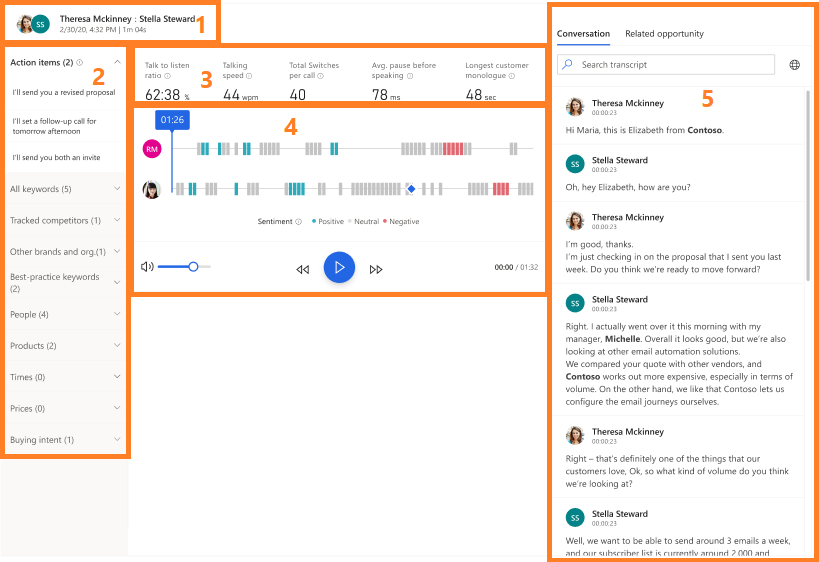
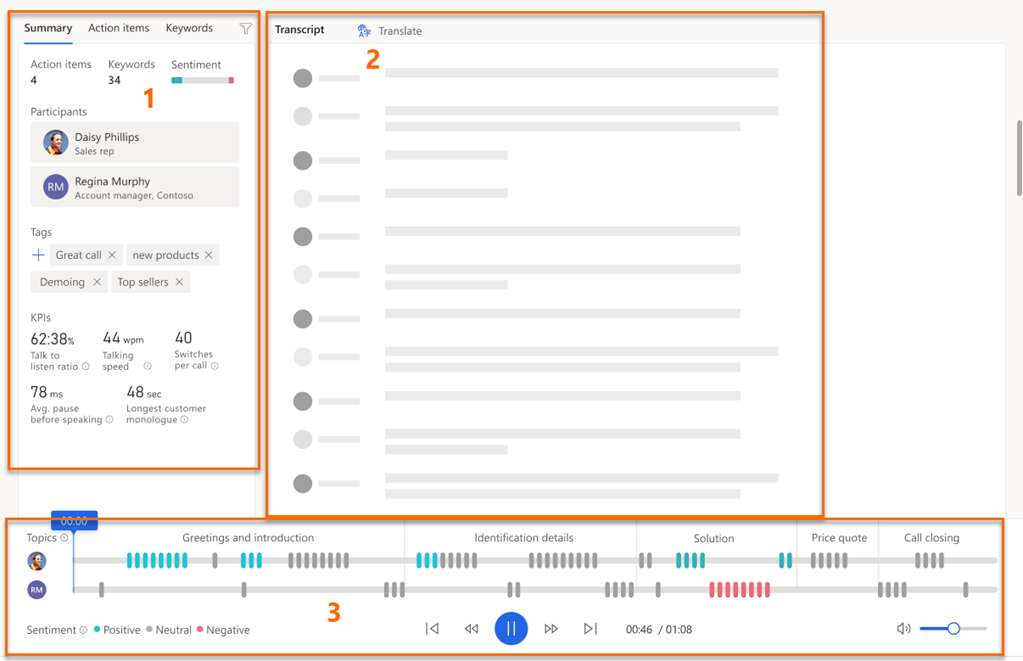
call summary page update

diff --git a/ai-docs/sales/view-and-understand-call-summary.md b/ai-docs/sales/view-and-understand-call-summary.md
@@ -70,53 +70,84 @@ The **Call Insights** tab is available under activities for leads and opportunit
 
 ## Understand the call summary page
 
-The following image is an example of the call summary page:
+Typically, call summary can be divided into the following sections:
 
-> [!div class="mx-imgBorder"]
-> ![Call summary page](media/si-app-call-summary-page.png "Call summary page")
+- [Call summary, action items, and keywords](#call-summary-action-items-and-keywords)
+- [Call transcript and translation](#call-transcript-and-translation)
+- [Call playback timeline and segmentation](#call-playback-timeline-and-segmentation)
 
-Let's look at the KPIs and insights on the call summary page in detail:
+### Call summary, action items, and keywords
 
-1.	**Call details**: Displays the names of the participants, the subject of call, and time when the phone call happened.
+- **Call summary tab**: Displays the names of the participants along with the KPIs such as average talking speed, switch per conversations, average pause, and longest customer monologue. Also, you can see the tags that are added to the conversation for better searchability.
 
-2.	**Signals pane**: Displays relevant talking points that were mentioned during the call:
-
-    -	**Action items**: Displays the list of actionable items mentioned during the call; for example, **I'll send you an email** or **I'll follow up with Michelle tomorrow**. When you select an action item, you can see where it was mentioned on the timeline.
-
-    -	**All keywords**: Displays keywords mentioned during the call. When you select a keyword, you can see where it was mentioned on the timeline.
-
-    -	**Tracked competitors**: Displays the defined competitors mentioned during the call. When you select a competitor, you can see where it was mentioned on the timeline.
-
-    -	**Tracked keywords**: Displays the predefined keywords that customers mentioned during the call. When you select a keyword, you can see where it was mentioned on the timeline.
-
-    -	**Other brands and org**: Displays brand and organization names (other than your organization’s) mentioned during the call. When you select a brand or organization name, you can see where it was mentioned on the timeline. 
-
-    -	**Best-practice keywords**: Displays keywords that can be used as best practices during the call. When you select a best practice keyword, you can see where it was mentioned on the timeline.
-
-    -	**People**: Displays the names of people mentioned during the call; for example, **Sarah** calling from Contoso. When you select a name, you can see where it was mentioned on the timeline.
-
-    -	**Products**: Displays the names of the products mentioned during the call; for example, I only know how to use a **Fabrikam LED TV**. When you select a product, you can see where it was mentioned on the timeline.
-
-    -	**Times**: Displays times mentioned during the call; for example, let’s talk next **week**. When you select a time, you can see where it was mentioned on the timeline.
-
-    -	**Prices**: Displays prices mentioned during the call; for example, the product will cost **$50**. When you select a price, you can see where it was mentioned on the timeline.
-
-    -	**Buying intent**: Displays possible buying intent mentioned during the call; for example, **I want to buy a printer**. When you select a buying intent, you can see where it was mentioned on the timeline.
-
-3.	**Core conversation information**: Displays metrics such as average talking speed, switch per conversations, average pause, and longest customer monologue.
-
-4.	**Call playback timeline**: Displays the call playback timeline with the sentiments highlighted (such as positive, neutral, and negative). You can go to a specific moment on the call by clicking on the timeline. The call transcript (on the right) will automatically scroll to that moment in the call. You can also pause the call, rewind, forward, and adjust volume as required. 
-
-5.	**Call transcript**: Provides a written record of the call. As a manager, you can review the transcript and leave a comment (for example, suggesting how the seller could possibly handle such a situation in the future). 
-
-    As a seller, you can review the transcript and comments that are posted by your manager or coach on the timeline. You can provide replies to the comments appropriately.
-
-    On a selected timeline, select **Add comment** to provide necessary replies or self-comments, and then select **Save**. 
-
-    The bolded text in the transcript are the brands, tracked keywords, and competitors mentioned in the conversation. If the transcript is in a language other than English (and is one of the languages supported by Microsoft), you can select the Translate icon to convert the transcript into English.
+    The following image is an example of the **Call summary** tab:
 
     > [!div class="mx-imgBorder"]
-    > ![Call summary page](media/si-app-call-summary-page-translate.png "Call summary page")
+    > ![Call summary tab](media/ci-summary-call-summary.png "Call summary tab")
+
+- **Action items tab**:
+
+Notes: 1. What are sellers required to keep track on after interacting with a customer?
+Actions: 1. Send email (ext) 2. Create task (crm) 3. Scheudle appointment (ext) 4. Schedule a phone call (crm) 5. Share/export all action items (as am email, as notes)
+
+
+
+
+- **Keywords tab**: Displays relevant talking points that were mentioned during the call:
+
+    - **Tracked keywords**: Displays the predefined keywords that customers mentioned during the call. When you select a keyword, you can see where it was mentioned on the timeline.
+    - **People**: Displays the names of people mentioned during the call; for example, Sarah calling from Contoso. When you select a name, you can see where it was mentioned on the timeline.
+    - **Products**: Displays the names of the products mentioned during the call; for example, I only know how to use a Fabrikam LED TV. When you select a product, you can see where it was mentioned on the timeline.
+    - **Competitors**: Displays the defined competitors mentioned during the call. When you select a competitor, you can see where it was mentioned on the timeline.
+    - **Best-practice keywords**: Displays keywords that can be used as best practices during the call. When you select a best practice keyword, you can see where it was mentioned on the timeline.
+    - **Other brands and org**: Displays brand and organization names (other than your organization’s) mentioned during the call. When you select a brand or organization name, you can see where it was mentioned on the timeline.
+
+    The following image is an example of the **Keywords** tab:
+
+    > [!div class="mx-imgBorder"]
+    > ![Keywords tab](media/ci-summary-keywords.png "Keywords tab")
+
+### Call transcript and translation
+
+- **Conversation tab**: Displays the written record of the call and timeline where you can read, comment, and translate.
+
+    The following image is an example of the **Conversation** tab:
+
+    > [!div class="mx-imgBorder"]
+    > ![Conversation tab with sample transcript](media/ci-transcript-conversation-transcript.png "Conversation tab with sample transcript")
+        
+    As a manager, you can review the transcript and leave a comment (for example, suggesting how the seller could possibly handle such a situation in the future). 
+    
+        As a seller, you can review the transcript and comments that are posted by your manager or coach on the timeline. 
+    
+    You can provide replies to the comments appropriately. Hover over a specific transcript on the timeline and select **Add comment** to provide necessary replies or self-comments, and then select **Save**.
+
+    > [!div class="mx-imgBorder"]
+    > ![add comment to transcripts](media/ci-transcript-comment.png "add comment to transcripts")
+    
+    The bolded text in the transcript are the brands, tracked keywords, and competitors mentioned in the conversation.
+    
+    If the transcript is in a language other than English (and is one of the languages supported by Microsoft), you can select the translate icon ![Translate icon](media/ci-transcript-translate-icon.png "Translate icon") to convert the transcript into English.
+
+- **Related opportunity tab**: Allows you to view or add opportunities that are related to the call and this helps other users who are viewing call summary to have an insight on what this conversation is regarding. 
+
+    If no opportunity is add to the conversation, select **Search** and add the related opportunity.
+    
+    > [!div class="mx-imgBorder"]
+    > ![Add a related opportunity](media/ci-transcript-search-add-opportunity.png "Add a related opportunity")
+
+### Call playback timeline and segmentation
+
+The following image is an example of the **Conversation** tab:
+
+> [!div class="mx-imgBorder"]
+> ![Playback timeline with segmentation](media/ci-summary-playback.png "Playback timeline with segmentation")
+
+The playback timeline displays the sentiments highlighted (such as positive, neutral, and negative). The diamond icons specify the the brands, tracked keywords, and competitors mentioned in the timeline.
+
+You can go to a specific moment on the call by clicking on the timeline. The call transcript will automatically scroll to that moment in the call. You can also pause the call, rewind, forward, and adjust volume as required.
+
+The **Topics** section on the top of the playback timeline divides the call timeline into segments. The segmentation lets you understand which part of the conversation is most interesting, and what is interesting. Some examples of the segments are introduction, solution, price quote, and call close. 
 
 
 ### See also
